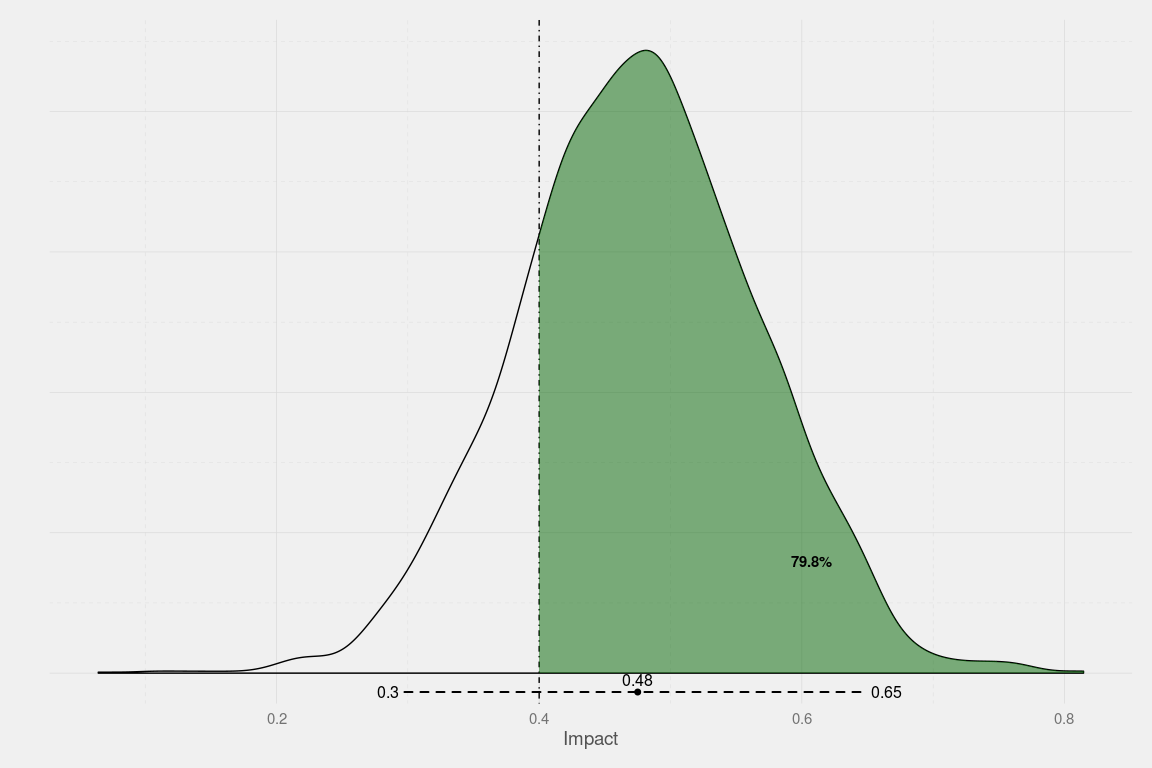
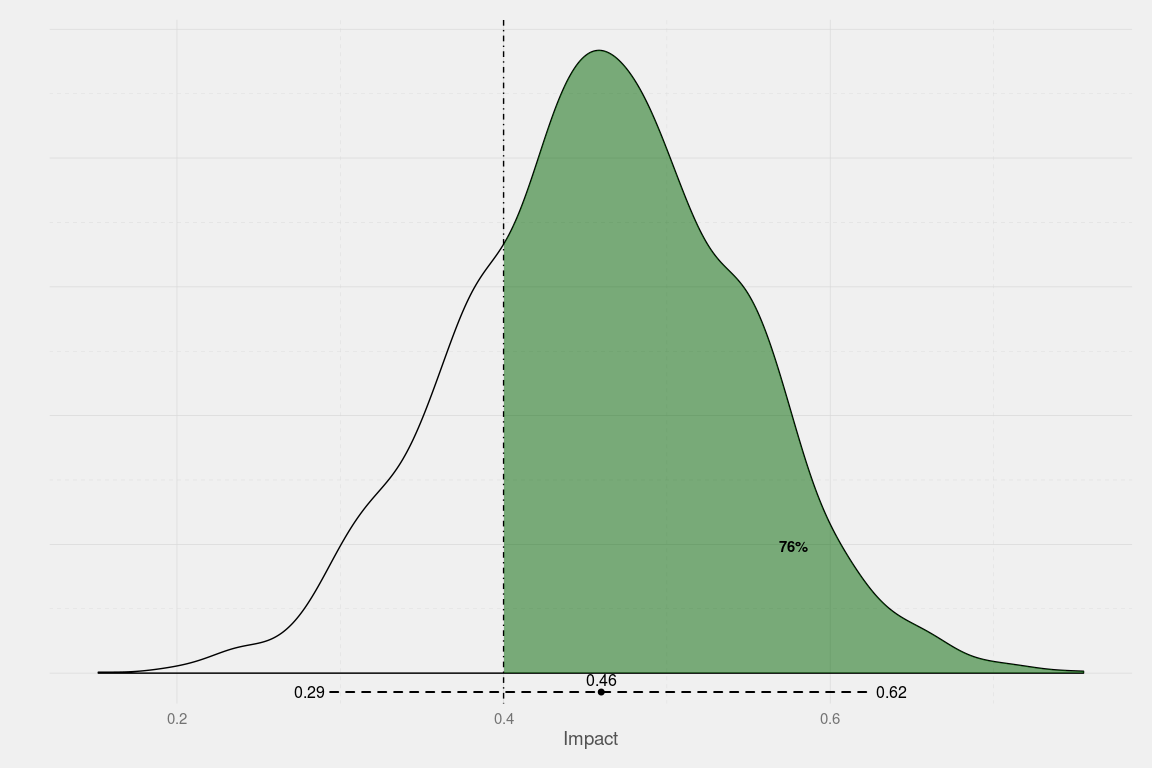
adds interpret function

diff --git a/README.md b/README.md
@@ -64,14 +64,14 @@ regtbl(lm1, type = "html", caption = "")
 x1
 </td>
 <td style="padding-right: 12px; border: none;">
-0.52<sup style="vertical-align: 0px;">\*</sup>
+0.50<sup style="vertical-align: 0px;">\*</sup>
 </td>
 </tr>
 <tr>
 <td style="padding-right: 12px; border: none;">
 </td>
 <td style="padding-right: 12px; border: none;">
-\[0.50; 0.54\]
+\[0.48; 0.52\]
 </td>
 </tr>
 <tr>
@@ -79,14 +79,14 @@ x1
 x2
 </td>
 <td style="padding-right: 12px; border: none;">
-0.75<sup style="vertical-align: 0px;">\*</sup>
+0.76<sup style="vertical-align: 0px;">\*</sup>
 </td>
 </tr>
 <tr>
 <td style="padding-right: 12px; border: none;">
 </td>
 <td style="padding-right: 12px; border: none;">
-\[0.73; 0.77\]
+\[0.74; 0.78\]
 </td>
 </tr>
 <tr>
@@ -94,14 +94,14 @@ x2
 Tr
 </td>
 <td style="padding-right: 12px; border: none;">
-0.47<sup style="vertical-align: 0px;">\*</sup>
+0.63<sup style="vertical-align: 0px;">\*</sup>
 </td>
 </tr>
 <tr>
 <td style="padding-right: 12px; border: none;">
 </td>
 <td style="padding-right: 12px; border: none;">
-\[0.32; 0.63\]
+\[0.48; 0.78\]
 </td>
 </tr>
 <tr>
@@ -109,14 +109,14 @@ Tr
 Constant
 </td>
 <td style="padding-right: 12px; border: none;">
--0.20
+-0.05
 </td>
 </tr>
 <tr>
 <td style="padding-right: 12px; border: none;">
 </td>
 <td style="padding-right: 12px; border: none;">
-\[-0.43; 0.04\]
+\[-0.27; 0.18\]
 </td>
 </tr>
 <tr>
@@ -156,23 +156,23 @@ gof.table(lm1, caption = "My caption!")
 <tbody>
 <tr class="odd">
 <td align="left"><pre><code>**x1**</code></pre></td>
-<td align="left"><p>0.9999</p></td>
-<td align="left"><p>3506</p></td>
+<td align="left"><p>0.9997</p></td>
+<td align="left"><p>3178</p></td>
 </tr>
 <tr class="even">
 <td align="left"><pre><code>**x2**</code></pre></td>
-<td align="left"><p>1</p></td>
-<td align="left"><p>3237</p></td>
+<td align="left"><p>0.9999</p></td>
+<td align="left"><p>3247</p></td>
 </tr>
 <tr class="odd">
 <td align="left"><pre><code>**Tr**</code></pre></td>
-<td align="left"><p>1</p></td>
-<td align="left"><p>3322</p></td>
+<td align="left"><p>0.9994</p></td>
+<td align="left"><p>3124</p></td>
 </tr>
 <tr class="even">
 <td align="left"><p><strong>Constant</strong></p></td>
 <td align="left"><p>1</p></td>
-<td align="left"><p>2894</p></td>
+<td align="left"><p>3229</p></td>
 </tr>
 </tbody>
 </table>
@@ -184,6 +184,17 @@ posteriorplot(model = lm1, parameter = Tr, cutoff = 0.4)
 ```
 
 ![](README-unnamed-chunk-6-1.png)<!-- -->
+
+### Interpret
+
+``` r
+interpret(model = lm1, name = Tr, cutoff = 0)
+#> [[1]]
+#> [1] "There is a 95% probability that the true impact of the intervention is between 0.48 and 0.78 units."
+#> 
+#> [[2]]
+#> [1] "There is a 100% probability that the intervention increases the outcome by 0 units or more."
+```
 
 Clustered
 ---------
@@ -213,14 +224,14 @@ regtbl(lm1, type = "html", caption = "")
 x1
 </td>
 <td style="padding-right: 12px; border: none;">
-0.52<sup style="vertical-align: 0px;">\*</sup>
+0.50<sup style="vertical-align: 0px;">\*</sup>
 </td>
 </tr>
 <tr>
 <td style="padding-right: 12px; border: none;">
 </td>
 <td style="padding-right: 12px; border: none;">
-\[0.50; 0.54\]
+\[0.48; 0.52\]
 </td>
 </tr>
 <tr>
@@ -228,14 +239,14 @@ x1
 x2
 </td>
 <td style="padding-right: 12px; border: none;">
-0.75<sup style="vertical-align: 0px;">\*</sup>
+0.76<sup style="vertical-align: 0px;">\*</sup>
 </td>
 </tr>
 <tr>
 <td style="padding-right: 12px; border: none;">
 </td>
 <td style="padding-right: 12px; border: none;">
-\[0.73; 0.77\]
+\[0.74; 0.78\]
 </td>
 </tr>
 <tr>
@@ -243,14 +254,14 @@ x2
 Tr
 </td>
 <td style="padding-right: 12px; border: none;">
-0.48<sup style="vertical-align: 0px;">\*</sup>
+0.63<sup style="vertical-align: 0px;">\*</sup>
 </td>
 </tr>
 <tr>
 <td style="padding-right: 12px; border: none;">
 </td>
 <td style="padding-right: 12px; border: none;">
-\[0.30; 0.65\]
+\[0.48; 0.79\]
 </td>
 </tr>
 <tr>
@@ -258,14 +269,14 @@ Tr
 Constant
 </td>
 <td style="padding-right: 12px; border: none;">
--0.20
+-0.05
 </td>
 </tr>
 <tr>
 <td style="padding-right: 12px; border: none;">
 </td>
 <td style="padding-right: 12px; border: none;">
-\[-0.44; 0.05\]
+\[-0.27; 0.18\]
 </td>
 </tr>
 <tr>
@@ -313,7 +324,7 @@ gof.table(lm1, caption = "My caption!")
 <tbody>
 <tr class="odd">
 <td align="left"><pre><code>**x1**</code></pre></td>
-<td align="left"><p>1</p></td>
+<td align="left"><p>0.9995</p></td>
 <td align="left"><p>4000</p></td>
 </tr>
 <tr class="even">
@@ -323,13 +334,13 @@ gof.table(lm1, caption = "My caption!")
 </tr>
 <tr class="odd">
 <td align="left"><pre><code>**Tr**</code></pre></td>
-<td align="left"><p>0.9999</p></td>
-<td align="left"><p>3056</p></td>
+<td align="left"><p>1</p></td>
+<td align="left"><p>4000</p></td>
 </tr>
 <tr class="even">
 <td align="left"><p><strong>Constant</strong></p></td>
-<td align="left"><p>0.9995</p></td>
-<td align="left"><p>3086</p></td>
+<td align="left"><p>0.9998</p></td>
+<td align="left"><p>4000</p></td>
 </tr>
 </tbody>
 </table>
@@ -340,7 +351,18 @@ gof.table(lm1, caption = "My caption!")
 posteriorplot(model = lm1, parameter = Tr, cutoff = 0.4)
 ```
 
-![](README-unnamed-chunk-10-1.png)<!-- -->
+![](README-unnamed-chunk-11-1.png)<!-- -->
+
+### Interpret
+
+``` r
+interpret(model = lm1, name = Tr, cutoff = 0)
+#> [[1]]
+#> [1] "There is a 95% probability that the true impact of the intervention is between 0.48 and 0.79 units."
+#> 
+#> [[2]]
+#> [1] "There is a 100% probability that the intervention increases the outcome by 0 units or more."
+```
 
 How do I get it?
 ================
